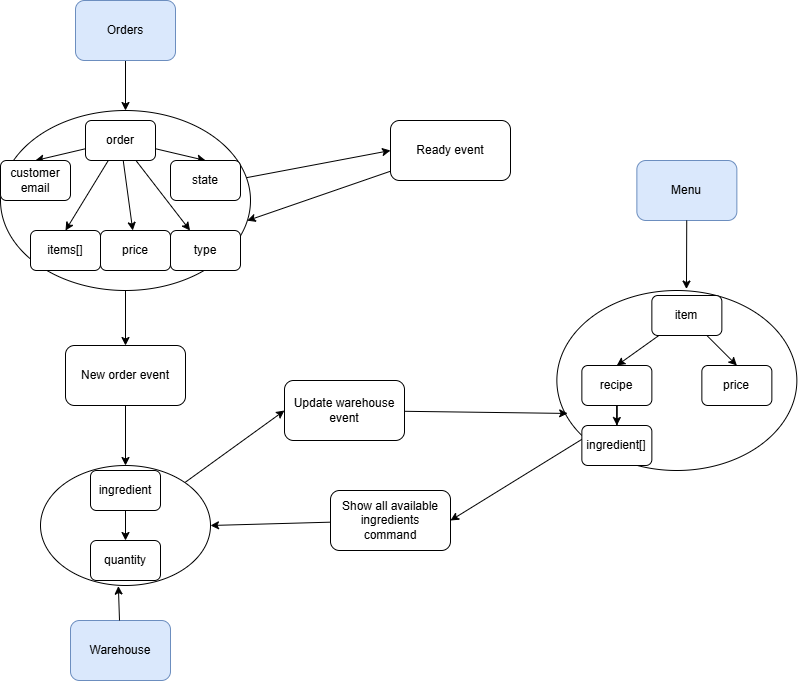
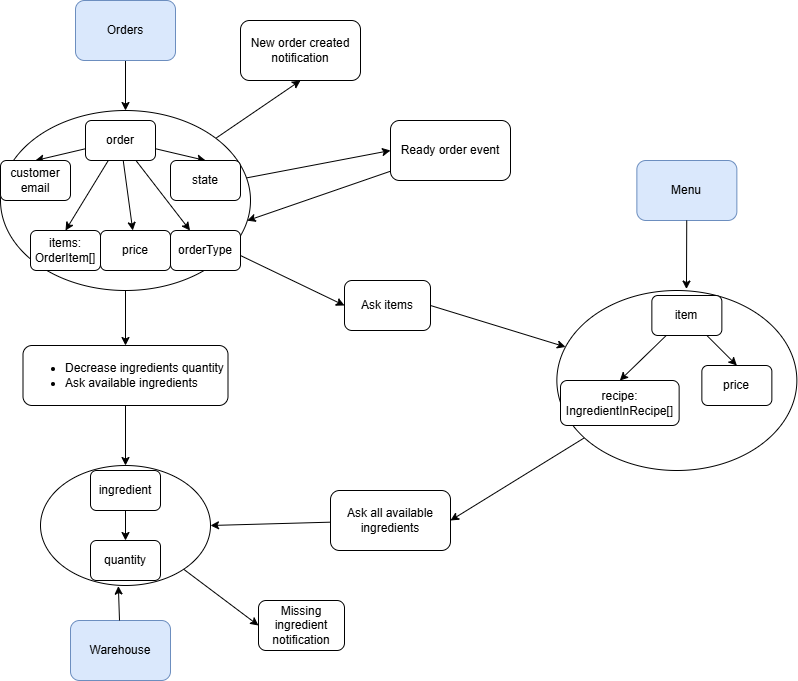
docs: design and building blocks relationship schema review

diff --git a/docs/design.md b/docs/design.md
@@ -31,14 +31,16 @@ nav_order: 6
 * The customer email must be always specified into the order  
 
 **Inbound Communications**:
-* Add/modify/remove an item from the order  *(Customer application → a command)*
 * Send new order *(Customer application → a command)*
 * Change order status *(Employee application → an event)*
-* Manage ready order *(Orders context → an event)*
+* Manage ready order event *(Orders context → an event)*
 * Show all orders *(Employee application → a query)*  
 
 **Outbound Communications**:
-* Create new order event *(an event → Warehouse context)*
+* Decrease ingredients quantity *(an command → Warehouse context)*
+* Ask available ingredients *(an query → Warehouse context)*
+* Ask items *(an query → Menu context)*
+* New order created notification *(an event → Employee application)*
 
 ### Menu Context
 **Description**: Management of the list of items that are part of the menu and their recipe
@@ -57,11 +59,10 @@ nav_order: 6
 * Show all items *(Manager application → a query)*
 * Show all available items *(Order context → a command)*
 * Add/modify an item *(Manager application → a command)*
-* Update menu *(Warehouse context → an event)*
 * Show all available items *(Customer application → a command)*
 
 **Outbound Communications**:
-* Show all available ingredients *(a command→ Warehouse context)*
+* Ask available ingredients *(an query → Warehouse context)*
 
 ### Warehouse Context
 **Description**: Management of the list of ingredients stored in the warehouse of the cafe
@@ -82,7 +83,7 @@ nav_order: 6
 * Restock an ingredient *(Manager application → a command)*
 
 **Outbound Communications**:
-* Create missing ingredient notification *(an event → Menu context)*
+* Missing ingredient notification *(an event → Manager application)*
 
 
 

diff --git a/docs/building_blocks.md b/docs/building_blocks.md
@@ -36,6 +36,6 @@ nav_order: 7
   * Order ready
   * Order pending
 
-## Building blocks reletionship
+## Building blocks relationship
 // TODO introduction  
 ![Warehouse](resources/images/Building%20blocks.png)
